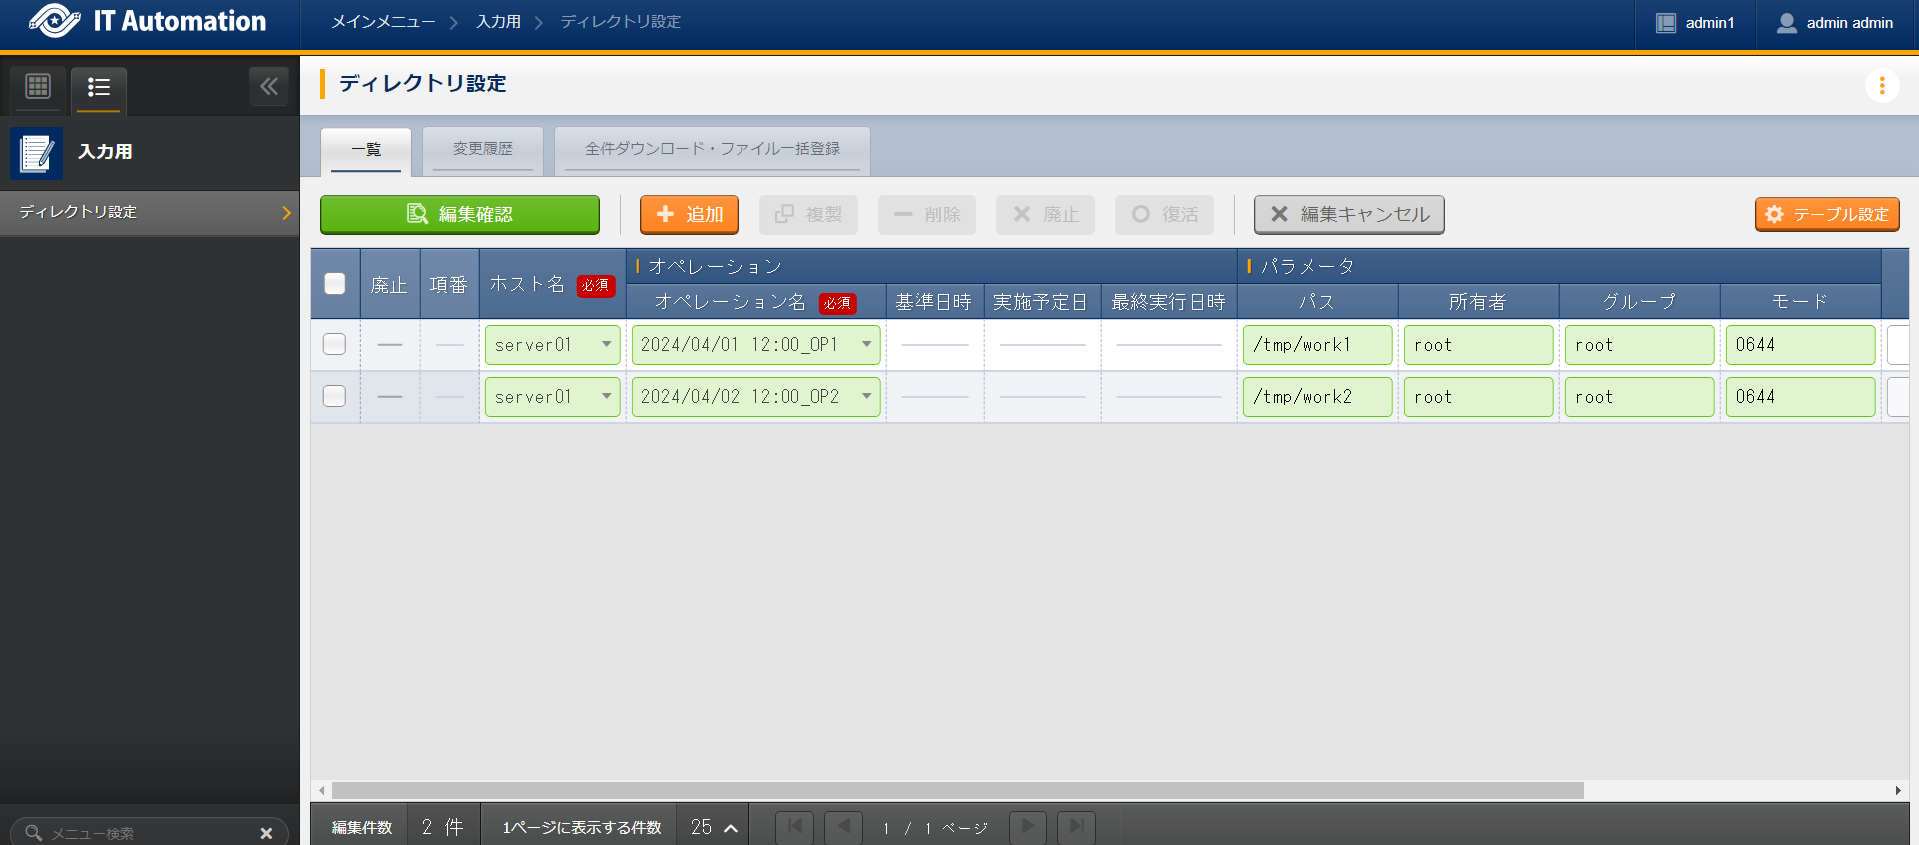
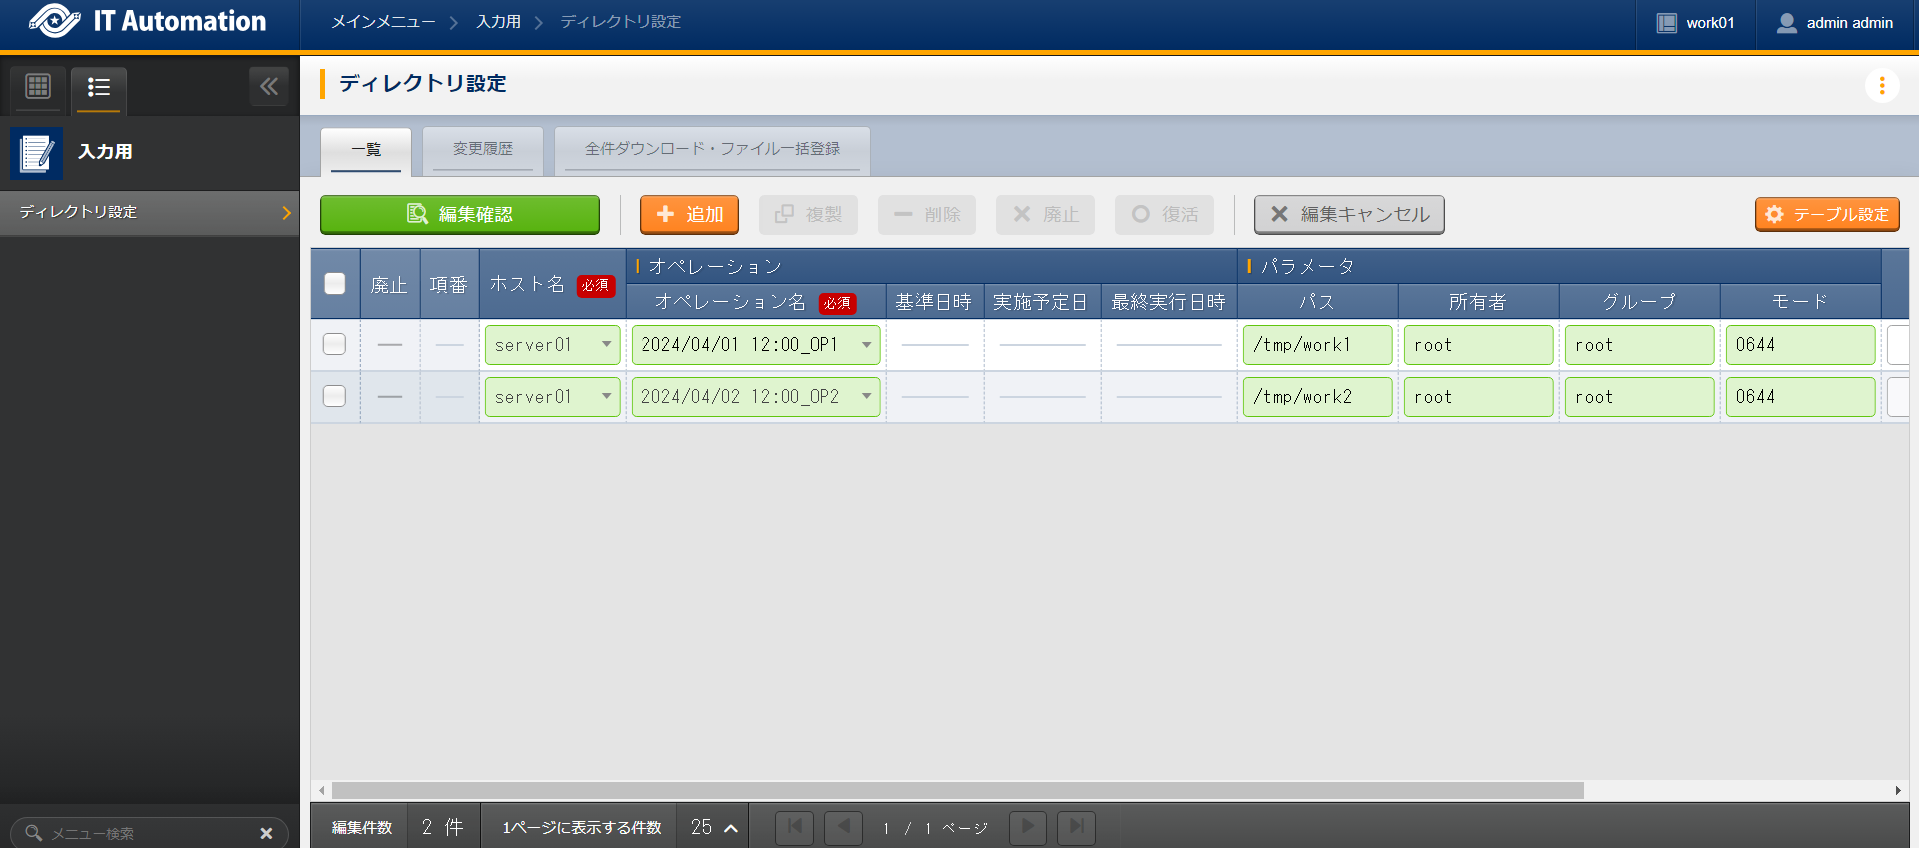
エクスポートインポートシナリオ修正 ワークスペース名変更に伴った画像変更

diff --git a/src/ja/2.4/learn/export_import/export_import.rst b/src/ja/2.4/learn/export_import/export_import.rst
@@ -25,9 +25,9 @@
 | まずは work01 ワークスペースでの作業になります。
 
 | データをエクスポートするためにパラメータシートを作成していきましょう。
-| :menuselection:`パラメータシート作成 --> パラメータシート定義・作成` から、ディレクトリ設定というパラメータシートを作成します。
+| :menuselection:`パラメータシート作成 --> パラメータシート定義・作成` から、「ディレクトリ設定」というパラメータシートを作成します。
 
-.. figure:: /images/learn/quickstart/export_import/パラメータシート作成定義.gif
+.. figure:: /images/learn/quickstart/export_import/パラメータシート作成定義.png
    :width: 1200px
    :alt: パラメータシート作成
 
@@ -336,13 +336,13 @@ kymファイルのダウンロード
 
 | 次にエクスポート元のデータをパラメータを更新します。
 | :menuselection:`入力用 --> ディレクトリ設定 --> フィルタ` から、更新したいパラメータを選択し、編集を押下します。
-| 今回は時刻指定モードでエクスポートを行うため、OP1のパラメータ更新後、2~3分程度時間を空けてからOP2の更新を行ってください。（2~3分程度）パラメータの更新後、:menuselection:`入力用 --> ディレクトリ設定 --> フィルタ` OP2の最終更新日時を確認しておきましょう。
+| 今回は時刻指定モードでエクスポートを行うため、OP1のパラメータ更新後、2~3分程度時間を空けてからOP2の更新を行ってください。パラメータの更新後、:menuselection:`入力用 --> ディレクトリ設定 --> フィルタ` からOP2の最終更新日時を確認しておきましょう。
 
-.. figure:: /images/learn/quickstart/export_import/パラメータ入力2.gif
+.. figure:: /images/learn/quickstart/export_import/パラメータ更新2.gif
    :width: 1200px
    :alt: ディレクトリ設定のパラメータ更新
 
-.. figure:: /images/learn/quickstart/export_import/パラメータ入力3.gif
+.. figure:: /images/learn/quickstart/export_import/パラメータ更新3.gif
    :width: 1200px
    :alt: ディレクトリ設定のパラメータ更新
 
@@ -381,7 +381,7 @@ kymファイルのダウンロード
 | 次に新しくパラメータを登録します。
 | :menuselection:`入力用 --> ディレクトリ設定` から、ディレクトリ設定のパラメータを登録します。
 
-.. figure:: /images/learn/quickstart/export_import/パラメータ入力4.png
+.. figure:: /images/learn/quickstart/export_import/パラメータ登録4.png
    :width: 1200px
    :alt: ディレクトリ設定のパラメータ登録
 
@@ -414,7 +414,7 @@ kymファイルのダウンロード
 | それでは更新したメニューをエクスポートします。
 | :menuselection:`エクスポート/インポート --> メニューエクスポート` からメニューのエクスポートをします。
 
-.. figure:: /images/learn/quickstart/export_import/時刻指定メニューエクスポート.gif
+.. figure:: /images/learn/quickstart/export_import/時刻指定メニューエクスポート1.gif
    :width: 1200px
    :alt: 時刻指定メニューエクスポート
 
@@ -432,8 +432,7 @@ kymファイルのダウンロード
     - :kbd:`全てのメニュー`
 
 .. tip::
-   | OP1のデータ更新日時以降ですが、例として今回はOP1のデータ更新日時が 2024/08/20 09:51:40 だったため、時刻指定の際は 2024/08/20 09:55 と指定しています。OP2のデータ更新日時が 2024/08/20 09:56:49 であるため、今回の例だと 2024/08/20 09:52 から 2024/08/20 09:56 の間で指定すれば問題なく実行できます。
-   | 
+   | 時刻指定の際は、OP2のデータ更新日時を指定しましょう。時刻指定で指定した時刻以降のデータがエクスポートされます。
 
 kymファイルのダウンロード
 -------------------------
@@ -441,7 +440,7 @@ kymファイルのダウンロード
 | 実行したエクスポートのデータをダウンロードしましょう。
 | :menuselection:`エクスポート/インポート --> メニューエクスポート・インポート管理 --> フィルタ --> ファイル名` からkymファイルをダウンロードします。
 
-.. figure:: /images/learn/quickstart/export_import/時刻指定ファイルダウンロード.gif
+.. figure:: /images/learn/quickstart/export_import/時刻指定ファイルダウンロード1.gif
    :width: 1200px
    :alt: 時刻指定kymファイルダウンロード
 
@@ -453,7 +452,7 @@ kymファイルのダウンロード
 | ダウンロードしたkymファイルをインポートします。
 | :menuselection:`エクスポート/インポート --> メニューインポート --> ファイル選択` からエクスポートしたkymファイルをアップロードします。インポートメニュー選択は、全てのメニューを選択します。
 
-.. figure:: /images/learn/quickstart/export_import/時刻指定メニューインポート.gif
+.. figure:: /images/learn/quickstart/export_import/時刻指定メニューインポート1.gif
    :width: 1200px
    :alt: 時刻指定メニューインポート
 
@@ -463,18 +462,18 @@ kymファイルのダウンロード
 | メニューインポートの実行が完了したら、実行したメニューインポートの情報を確認します。
 | :menuselection:`エクスポート/インポート --> メニューエクスポート・インポート管理 --> フィルタ` から実行したインポートのステータスが「完了」となっていることを確認しましょう。
 
-.. figure:: /images/learn/quickstart/export_import/時刻指定メニューインポート確認.png
+.. figure:: /images/learn/quickstart/export_import/時刻指定メニューインポート確認1.png
    :width: 1200px
    :alt: 時刻指定メニューインポート確認
 
 | 次に移行されたメニューを確認します。
 | :menuselection:`入力用 --> ディレクトリ設定 --> フィルタ` から、時刻指定以降のパラメータが登録、更新されていることを確認しましょう。OP1のデータが更新されておらず、OP2のデータが更新、OP3のデータが登録されていれば大丈夫です。
 
-.. figure:: /images/learn/quickstart/export_import/時刻指定メニューインポート確認2.gif
+.. figure:: /images/learn/quickstart/export_import/時刻指定メニューインポート確認1.gif
    :width: 1200px
    :alt: 時刻指定メニューインポート確認
 
-.. list-table:: ディレクトリ設定の設定値2
+.. list-table:: 時刻指定メニューインポート確認
   :widths: 5 10 5 5 5 5 10
   :header-rows: 2
 
@@ -528,7 +527,7 @@ Excel一括エクスポートの実行
 | それではメニューをエクスポートします。
 | :menuselection:`エクスポート/インポート --> Excel一括エクスポート` からメニューのエクスポートをします。
 
-.. figure:: /images/learn/quickstart/export_import/Excel一括メニューエクスポート.gif
+.. figure:: /images/learn/quickstart/export_import/Excel一括メニューエクスポート1.gif
    :width: 1200px
    :alt: Excel一括メニューエクスポート
 
@@ -547,7 +546,7 @@ zipファイルのダウンロード
 | 実行したエクスポートのデータをダウンロードしましょう。
 | :menuselection:`エクスポート/インポート --> Excel一括エクスポート・インポート管理 --> フィルタ --> ファイル名` からzipファイルをダウンロードします。
 
-.. figure:: /images/learn/quickstart/export_import/Excel一括zipファイルダウンロード.gif
+.. figure:: /images/learn/quickstart/export_import/Excel一括zipファイルダウンロード1.gif
    :width: 1200px
    :alt: Excel一括zipファイルダウンロード
 
@@ -592,7 +591,7 @@ Excel一括インポートの実行
 | 圧縮したzipファイルをインポートします。
 | :menuselection:`エクスポート/インポート --> Excel一括インポート --> ファイル選択` からエクスポートしたzipファイルをアップロードします。インポートメニュー選択は、全てのメニューを選択します。
 
-.. figure:: /images/learn/quickstart/export_import/Excel一括インポート.gif
+.. figure:: /images/learn/quickstart/export_import/Excel一括インポート1.gif
    :width: 1200px
    :alt: Excel一括インポート
 
@@ -603,7 +602,7 @@ Excel一括インポートの確認
 | :menuselection:`エクスポート/インポート --> Excel一括エクスポート・インポート管理 --> フィルタ` から実行したインポートのステータスが「完了」となっていることを確認しましょう。
 | そして、:menuselection:`エクスポート/インポート --> Excel一括エクスポート・インポート管理 --> フィルタ --> 結果` から結果logファイルをダウンロードします。ダウンロードしたlogファイルを開き、登録件数を確認しましょう。
 
-.. figure:: /images/learn/quickstart/export_import/Excel一括インポート確認.gif
+.. figure:: /images/learn/quickstart/export_import/Excel一括インポート確認1.gif
    :width: 1200px
    :alt: Excel一括インポート確認
 
@@ -614,11 +613,11 @@ Excel一括インポートの確認
 | 次に、ファイルを編集して登録した内容を確認します。
 | :menuselection:`基本コンソール --> オペレーション一覧 --> フィルタ` から登録したオペレーションが追加されていることを確認しましょう。
 
-.. figure:: /images/learn/quickstart/export_import/Excel一括インポート確認3.gif
+.. figure:: /images/learn/quickstart/export_import/Excel一括インポート確認2.gif
    :width: 1200px
    :alt: Excel一括インポート確認
 
-.. list-table:: オペレーション登録内容
+.. list-table:: Excel一括インポート確認
    :widths: 5 5 10
    :header-rows: 1
 
